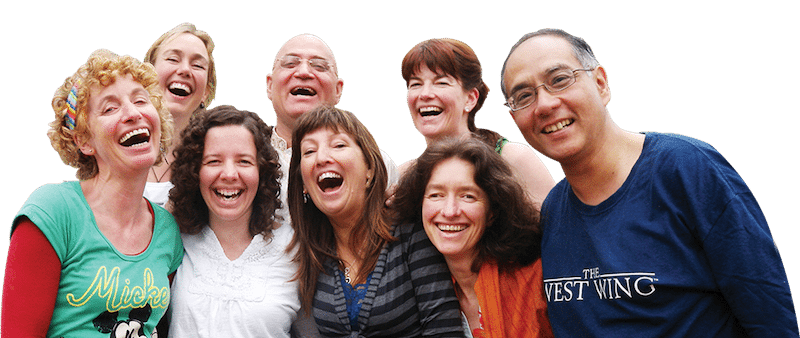
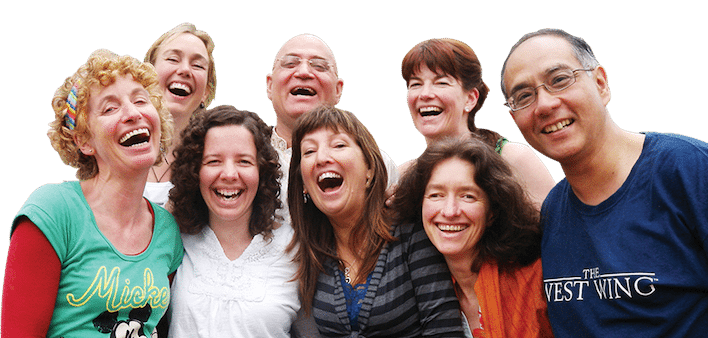
Nivel 2: maquetación responsive

diff --git a/views/css/style.css b/views/css/style.css
@@ -1,39 +1,54 @@
+@media (min-width: 768px) {
+    .card {
+        width: 100%;
+    }
+}
+
+@media (min-width: 992px) {
+    .card {
+        width: 50%;
+    }
+}
+
 .page {
-  height: 100vh;
-  font-size: 2rem;
+    height: 100vh;
+    font-size: 2rem;
 }
 
 .container-fluid {
-  min-height: calc(100vh - 80px);
+    min-height: calc(100vh - 140px);
 }
 
 .container-fluid::after {
-  content: "";
-  background-image: url("../assets/laughing-ppl.png");
-  background-size: cover;
-  background-position: 10px 200px;
-  background-repeat: no-repeat;
-  opacity: 0.4;
-  top: 0;
-  left: 0;
-  bottom: 0;
-  right: 0;
-  position: absolute;
-  z-index: -1;
+    content: "";
+    background-image: url("../assets/laughing-ppl.png");
+    background-size: cover;
+    background-position: center 175px;
+    background-repeat: no-repeat;
+    opacity: 0.4;
+    top: 0;
+    left: 0;
+    bottom: 0;
+    right: 0;
+    position: absolute;
+    z-index: -1;
 }
 
 .card {
-  opacity: 0.8;
+    opacity: 0.9;
+    margin-top: 5%;
 }
 
 h1 {
-  font-size: 3rem;
-  font-weight: 600;
-  text-shadow: 2px 2px #ffc800;
+    font-size: 3rem;
+    font-weight: 600;
+    text-shadow: 2px 2px #00afd7;
 }
 
 footer {
-  height: 120px;
-  font-size: 1rem;
+    height: 120px;
+    font-size: 1rem;
 }
+
+
 /*# sourceMappingURL=style.css.map */

diff --git a/views/scss/style.scss b/views/scss/style.scss
@@ -1,21 +1,33 @@
 $header-height: 60px;
 $footer-height: 120px;
-$low-opacity: 0.8;
+$low-opacity: 0.9;
 $translucid: 0.25;
+@media (min-width: 768px) {
+    .card {
+        width: 100%;
+    }
+}
+
+@media (min-width: 992px) {
+    .card {
+        width: 50%;
+    }
+}
+
 .page {
     height: 100vh;
     font-size: 2rem;
 }
 
 .container-fluid {
-    min-height: calc(100vh - 80px);
+    min-height: calc(100vh - 140px);
 }
 
 .container-fluid::after {
     content: "";
     background-image: url("../assets/laughing-ppl.png");
     background-size: cover;
-    background-position: 10px 200px;
+    background-position: center 175px;
     background-repeat: no-repeat;
     opacity: 0.4;
     top: 0;
@@ -28,12 +40,13 @@ $translucid: 0.25;
 
 .card {
     opacity: $low-opacity;
+    margin-top: 5%;
 }
 
 h1 {
     font-size: 3rem;
     font-weight: 600;
-    text-shadow: 2px 2px rgb(255, 200, 0);
+    text-shadow: 2px 2px rgb(0, 175, 215);
 }
 
 footer {

diff --git a/controller/jokes-controller.js b/controller/jokes-controller.js
@@ -75,7 +75,7 @@ var UI = /** @class */ (function () {
         if (app.hasChildNodes) {
             app.firstChild.remove();
         }
-        div.innerHTML = "\n        <div class=\"w-75 m-auto px-3 py-2\">\n            <p class=\"text-start\"> " + data.joke + "</p>\n        </div>\n        ";
+        div.innerHTML = "\n        <div class=\"m-auto px-3 py-2\">\n            <p class=\"text-start\"> " + data.joke + "</p>\n        </div>\n        ";
         app.appendChild(div);
     };
     return UI;
@@ -89,5 +89,5 @@ document.querySelector('#action-button')
         .then(function (response) {
         joke = response;
         ui.showJoke(response);
-    })["catch"](function (error) { return console.error(error); })["finally"](function () { return console.log('Completed!'); });
+    })["catch"](function (error) { return console.error(error); });
 });

diff --git a/views/index.html b/views/index.html
@@ -19,16 +19,16 @@
 
     <div class="page">
         <!-- Header Navigation -->
-        <header class="bg-dark">
+        <header>
             <div id="app-weather">
-                <p class="ms-3 text-light">{#Openweathermap}</p>
+                <p class="ms-3 text-info">#OpenWeatherMap-App</p>
             </div>
         </header>
         <!-- Main -->
-        <main class="container-fluid text-center py-5">
+        <main class="container-fluid">
             <!-- Content -->
-            <div class="card w-75 mx-auto mt-3 p-5">
-                <div class="card-title">
+            <div class="card p-4 shadow-lg mx-auto mb-3">
+                <div class="card-title text-center mx-auto">
                     <h1>Click and get a new Dad Joke</h1>
                 </div>
                 <article class="row justify-content-center">

diff --git a/controller/jokes-controller.ts b/controller/jokes-controller.ts
@@ -29,7 +29,7 @@ class UI {
             app.firstChild.remove();
         }
         div.innerHTML = `
-        <div class="w-75 m-auto px-3 py-2">
+        <div class="m-auto px-3 py-2">
             <p class="text-start"> ${data.joke}</p>
         </div>
         `;
@@ -51,6 +51,5 @@ document.querySelector('#action-button')
                 ui.showJoke(response)
             })
             .catch(error => console.error(error))
-            .finally(() => console.log('Completed!'));
     });
 
